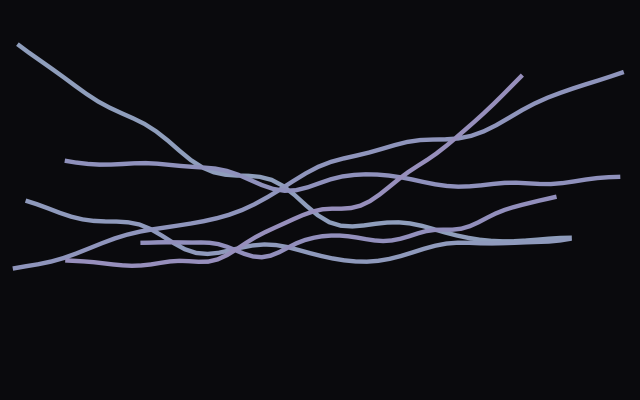
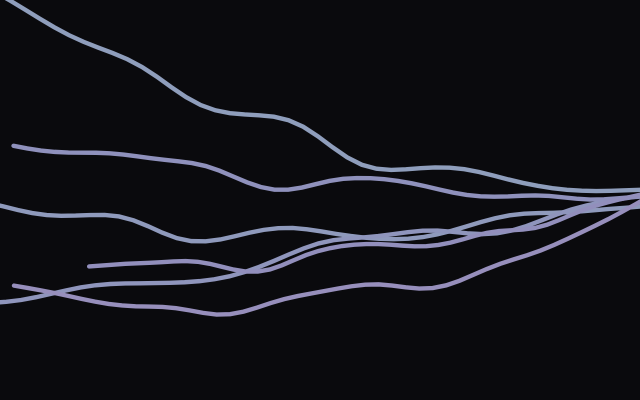
Refresh tether: converge cables to a single anchor, not a field
tether and meridian were the collection's documented weakest pair —
separated only by hue and crossing-vs-parallel line structure, both
otherwise the same edge-to-edge field of independently-placed lines
spanning the full canvas.

Give tether its own structural identity: cables now converge on one
anchor point that exits the frame, instead of independent random pairs
scattered top to bottom on each side. This makes tether read as a
mooring/fan — one dominant compositional gesture with real negative
space on the side away from the knot — rather than a hue-shifted twin
of meridian's parallel-ribbon field, and it no longer depends on the
hue slider to read as distinct at gallery-card size.

Presets refreshed against the new composition: slack (now the
composition-defining knob controlling how much each cable droops on
its way to the anchor) plus a second structural axis vary alongside
intensity, so all five differ on at least two visual axes per
CONTRIBUTING's bar. Verified with tools/preset-sheet.mjs — dense does
not collapse into a blob at the anchor.

Regenerated tether's thumbnail and download via npm run build.
Checks run and passing for tether: build --verify-only,
test-presets, test-bake-fresh, test-baked, test-source.
test-interactions' one failure (stationary Wake fade) is the
pre-existing Chunk 6 bug on this branch, unrelated to tether.

Claude-Session: https://claude.ai/code/session_01NPHukpb5mgmKRPY5vLiPFP

diff --git a/downloads/tether.html b/downloads/tether.html
@@ -1227,13 +1227,26 @@ function describeForAI({ pieceName, values }) {
   let cables = [];
   let paths = [];
 
+  // Every cable now shares one converging anchor — the actual "tether"
+  // point — instead of independent random pairs on each side. That's the
+  // structural change: the old version was a field of crossing lines
+  // spread edge-to-edge, which is exactly why it read as a hue-shifted
+  // twin of meridian's field of parallel ribbons. A fan converging on one
+  // point gives tether its own dominant gesture (a mooring, not a field)
+  // and opens real negative space on the side away from the knot, at any
+  // size including a gallery card.
+  // Just past the right edge so the bundle exits the frame instead of
+  // stopping short and reading as a cut stub of blunt line ends.
+  const TETHER_X = 1.04;
+  const TETHER_Y = 0.48;
+
   function seedCables(count) {
     cables = Array.from({ length: count }, (_, i) => ({
       // Anchors live in normalised space so a resize doesn't restring them.
-      ax: 0.02 + Math.random() * 0.2,
-      ay: 0.1 + Math.random() * 0.8,
-      bx: 0.78 + Math.random() * 0.2,
-      by: 0.1 + Math.random() * 0.8,
+      ax: -0.06 + Math.random() * 0.2,
+      ay: -0.08 + Math.random() * 1.16,
+      bx: TETHER_X + (Math.random() - 0.5) * 0.03,
+      by: TETHER_Y + (Math.random() - 0.5) * 0.06,
       j: (i / Math.max(1, count)) * Math.PI * 2 + Math.random(),
     }));
   }
@@ -1241,12 +1254,19 @@ function describeForAI({ pieceName, values }) {
   // Only 6 heavy cables at rest, so `whisper` has to drop stroke hard or it
   // still reads heavy. stroke's control max is 2 — `ink` is held at 1.9,
   // not the limit, so the preset isn't pinned to a ceiling.
+  // `slack` is now the composition-defining knob (the fan converges to one
+  // point; how much each cable droops on the way there is the whole
+  // silhouette), so presets vary it — not just intensity — alongside a
+  // second structural axis (`angle` tilts the whole rig, `scale` widens
+  // the shiver). `dense` in particular is checked against the knot at
+  // TETHER_X not collapsing into a blob: slack is dropped there so more
+  // cables stay taut and legible instead of piling up as droop.
   const PRESETS = {
-    whisper: { opacity: 0.22, stroke: 0.3, density: 0.5, saturation: 0.05, glow: 0 },
-    ink:     { opacity: 1, stroke: 1.9, density: 0.8, saturation: 0, glow: 0 },
-    neon:    { opacity: 0.95, stroke: 1.2, density: 1.2, saturation: 0.95, glow: 1.2 },
-    drift:   { opacity: 0.5, stroke: 1, density: 0.7, speed: 0.25, motion: 1.7 },
-    dense:   { opacity: 0.6, stroke: 0.7, density: 1.8, speed: 0.8 },
+    whisper: { opacity: 0.22, stroke: 0.3, density: 0.5, saturation: 0.05, glow: 0, slack: 0.4 },
+    ink:     { opacity: 1, stroke: 1.9, density: 0.8, saturation: 0, glow: 0, slack: 1.4 },
+    neon:    { opacity: 0.95, stroke: 1.2, density: 1.2, saturation: 0.95, glow: 1.2, slack: 0.9, angle: 352 },
+    drift:   { opacity: 0.5, stroke: 1, density: 0.7, speed: 0.25, motion: 1.7, slack: 1.7 },
+    dense:   { opacity: 0.6, stroke: 0.7, density: 1.8, speed: 0.8, slack: 0.35, scale: 1.3 },
   };
 
   const baked = window.__LF_BAKED_VALUES__;
@@ -1268,6 +1288,7 @@ function describeForAI({ pieceName, values }) {
   function drawFrame(dt, elapsed, values) {
     ctx.fillStyle = values.invert ? '#f2f2f4' : '#0a0a0d';
     ctx.fillRect(0, 0, canvas.width, canvas.height);
+    ctx.lineCap = 'round';
 
     paths = [];
     const W = canvas.width;

diff --git a/pieces/tether/index.html b/pieces/tether/index.html
@@ -51,13 +51,26 @@
   let cables = [];
   let paths = [];
 
+  // Every cable now shares one converging anchor — the actual "tether"
+  // point — instead of independent random pairs on each side. That's the
+  // structural change: the old version was a field of crossing lines
+  // spread edge-to-edge, which is exactly why it read as a hue-shifted
+  // twin of meridian's field of parallel ribbons. A fan converging on one
+  // point gives tether its own dominant gesture (a mooring, not a field)
+  // and opens real negative space on the side away from the knot, at any
+  // size including a gallery card.
+  // Just past the right edge so the bundle exits the frame instead of
+  // stopping short and reading as a cut stub of blunt line ends.
+  const TETHER_X = 1.04;
+  const TETHER_Y = 0.48;
+
   function seedCables(count) {
     cables = Array.from({ length: count }, (_, i) => ({
       // Anchors live in normalised space so a resize doesn't restring them.
-      ax: 0.02 + Math.random() * 0.2,
-      ay: 0.1 + Math.random() * 0.8,
-      bx: 0.78 + Math.random() * 0.2,
-      by: 0.1 + Math.random() * 0.8,
+      ax: -0.06 + Math.random() * 0.2,
+      ay: -0.08 + Math.random() * 1.16,
+      bx: TETHER_X + (Math.random() - 0.5) * 0.03,
+      by: TETHER_Y + (Math.random() - 0.5) * 0.06,
       j: (i / Math.max(1, count)) * Math.PI * 2 + Math.random(),
     }));
   }
@@ -65,12 +78,19 @@
   // Only 6 heavy cables at rest, so `whisper` has to drop stroke hard or it
   // still reads heavy. stroke's control max is 2 — `ink` is held at 1.9,
   // not the limit, so the preset isn't pinned to a ceiling.
+  // `slack` is now the composition-defining knob (the fan converges to one
+  // point; how much each cable droops on the way there is the whole
+  // silhouette), so presets vary it — not just intensity — alongside a
+  // second structural axis (`angle` tilts the whole rig, `scale` widens
+  // the shiver). `dense` in particular is checked against the knot at
+  // TETHER_X not collapsing into a blob: slack is dropped there so more
+  // cables stay taut and legible instead of piling up as droop.
   const PRESETS = {
-    whisper: { opacity: 0.22, stroke: 0.3, density: 0.5, saturation: 0.05, glow: 0 },
-    ink:     { opacity: 1, stroke: 1.9, density: 0.8, saturation: 0, glow: 0 },
-    neon:    { opacity: 0.95, stroke: 1.2, density: 1.2, saturation: 0.95, glow: 1.2 },
-    drift:   { opacity: 0.5, stroke: 1, density: 0.7, speed: 0.25, motion: 1.7 },
-    dense:   { opacity: 0.6, stroke: 0.7, density: 1.8, speed: 0.8 },
+    whisper: { opacity: 0.22, stroke: 0.3, density: 0.5, saturation: 0.05, glow: 0, slack: 0.4 },
+    ink:     { opacity: 1, stroke: 1.9, density: 0.8, saturation: 0, glow: 0, slack: 1.4 },
+    neon:    { opacity: 0.95, stroke: 1.2, density: 1.2, saturation: 0.95, glow: 1.2, slack: 0.9, angle: 352 },
+    drift:   { opacity: 0.5, stroke: 1, density: 0.7, speed: 0.25, motion: 1.7, slack: 1.7 },
+    dense:   { opacity: 0.6, stroke: 0.7, density: 1.8, speed: 0.8, slack: 0.35, scale: 1.3 },
   };
 
   const baked = window.__LF_BAKED_VALUES__;
@@ -92,6 +112,7 @@
   function drawFrame(dt, elapsed, values) {
     ctx.fillStyle = values.invert ? '#f2f2f4' : '#0a0a0d';
     ctx.fillRect(0, 0, canvas.width, canvas.height);
+    ctx.lineCap = 'round';
 
     paths = [];
     const W = canvas.width;

diff --git a/ROADMAP.md b/ROADMAP.md
@@ -356,6 +356,23 @@ quality, a separate concern from that.
   strongly by another piece) rather than against its own prior version.
 - [ ] Refresh presets, thumbnail, download for each on completion.
 
+`flow-field` done: off-center soft mask replaces edge-to-edge particle
+coverage, giving it real negative space; presets refreshed to differ on
+at least two visual axes each; resize-batcher/dt-clamp hardening confirmed
+intact.
+
+`tether` done: cables that used to run as independent random pairs across
+the full canvas — the same edge-to-edge field structure as meridian, hue
+aside — now converge to a single anchor point exiting the frame, giving
+tether its own dominant gesture (a mooring/fan, not a field) and real
+negative space on the side away from the knot. This resolves the
+documented "meridian and tether remain the weakest pair" weakness at the
+structural level, not just palette. Presets refreshed: `slack` (now the
+composition-defining knob) plus a second structural axis (`angle` or
+`scale`) vary alongside intensity so all five differ on at least two
+visual axes, verified with `node tools/preset-sheet.mjs tether`.
+Thumbnail and download regenerated via `npm run build`.
+
 **Finish line:** All three read as belonging to the same collection as the
 five newest pieces, judged side by side, not each against its own history.
 

diff --git a/README.md b/README.md
@@ -154,7 +154,7 @@ tooling" below and CONTRIBUTING.md.
 - `meridian` — seven long ribbons sweeping the full width
 - `synapse` — drifting nodes wired to their neighbours, pulsing
 - `accretion` — matter spiralling inward to a bright core
-- `tether` — a few heavy cables strung taut and swaying
+- `tether` — heavy cables mooring to a single converging point
 - `event-horizon` — a polar grid bent inward by a gravity well
 - `rainfall` — sparse vertical streaks falling at varying speeds, each with a brighter head
 - `lacuna` — broken caustic arcs gathering around an off-centre calm zone
